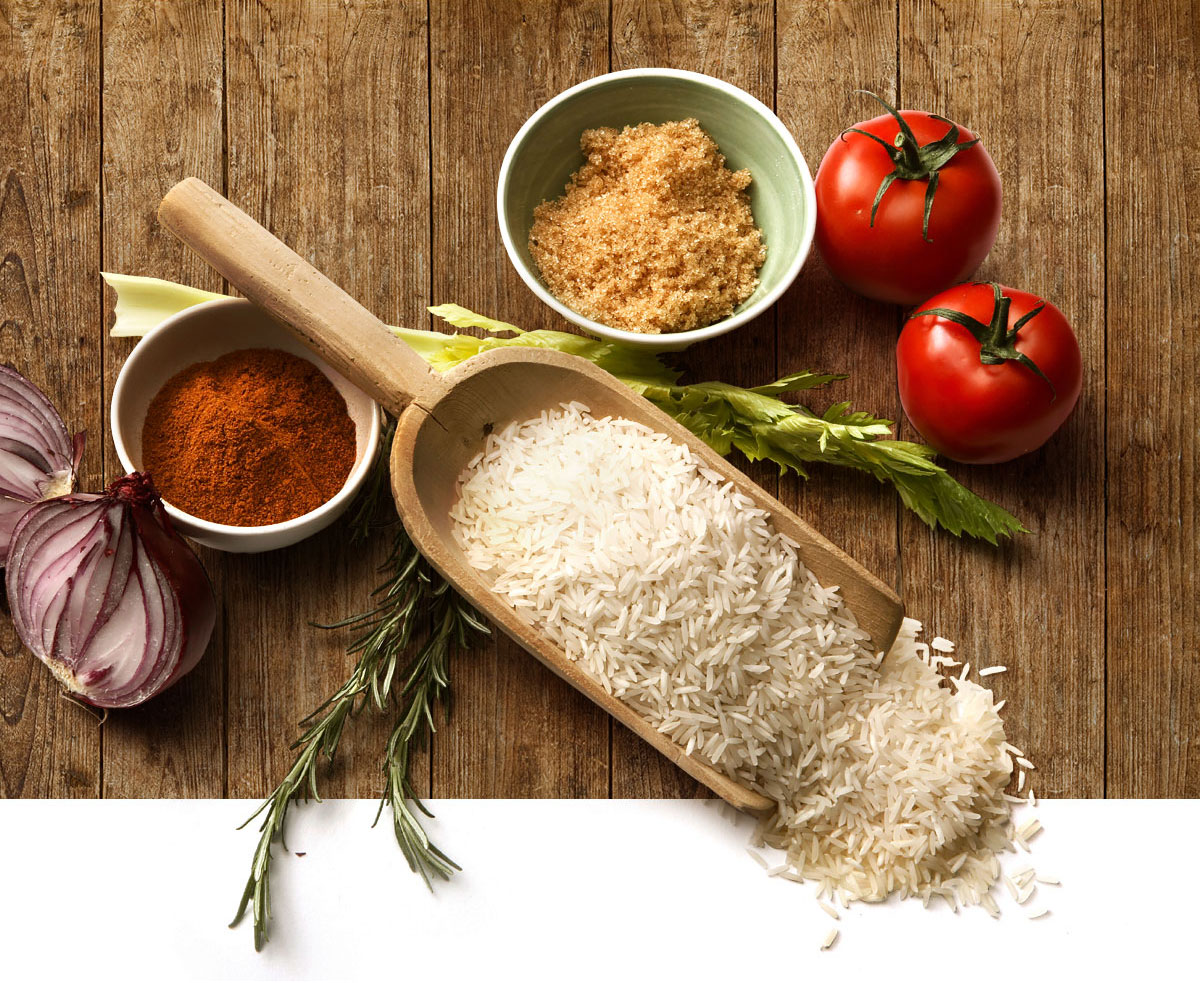
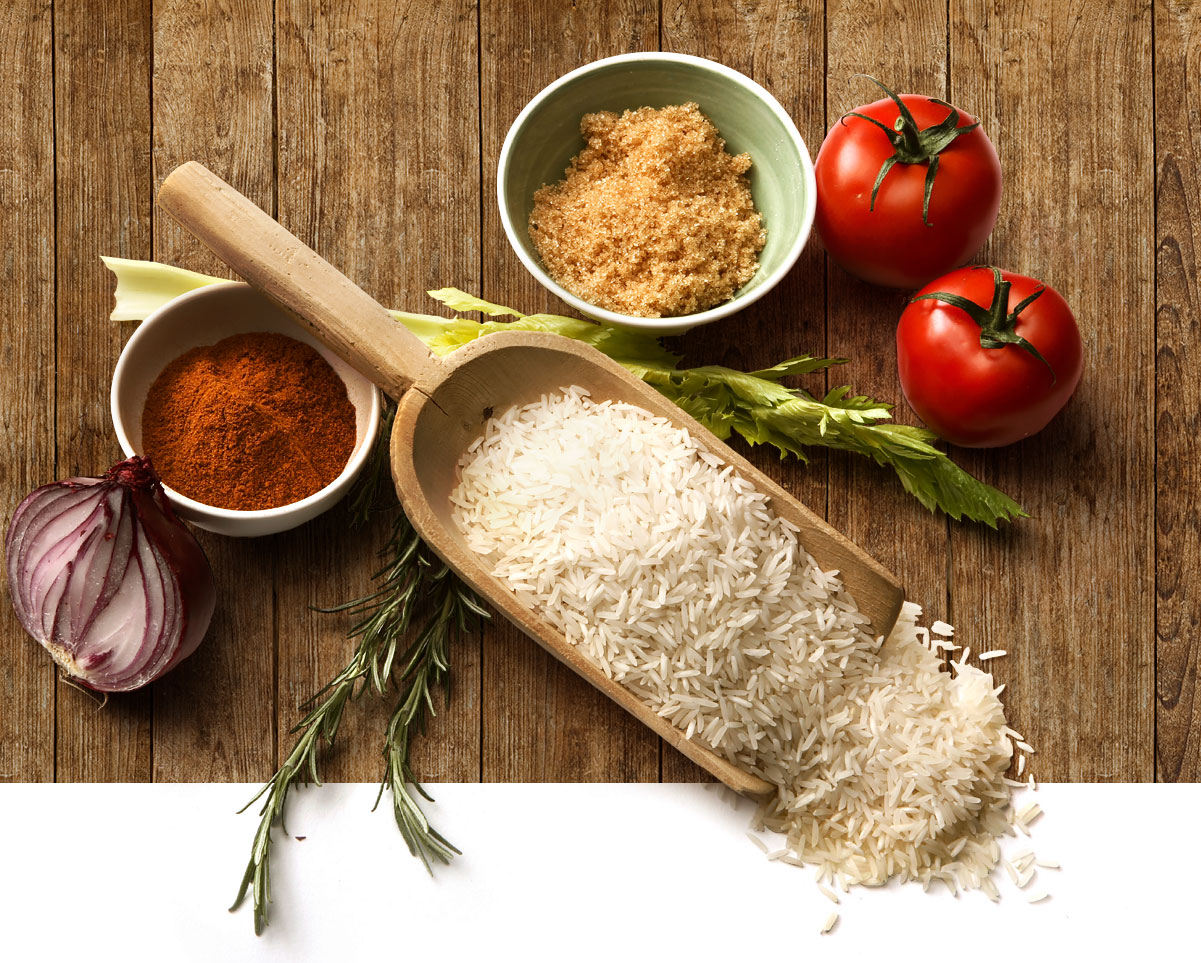
fix backgrounds and images

diff --git a/hipstafood/less/style.less b/hipstafood/less/style.less
@@ -60,8 +60,7 @@ section{
   
    .background{
       background-image:url("../img/img-1.jpg");
-      .opacity(100);
-      background-size:100%;
+      .opacity(100);      
    }
    .scroll-btn {
       display: block;
@@ -151,7 +150,7 @@ body > section.v-center > div {
     background-repeat:no-repeat,repeat-x;
     background-image:url('../img/table.jpg')~'\9';
     background-repeat:no-repeat~'\9';
-    background-attachment: fixed;    
+    background-position:top center ~'\9';       
     background-size: auto 100%;  
     padding-bottom:256px;
     height:996px;
@@ -161,9 +160,10 @@ body > section.v-center > div {
     .control-btn{bottom:240px;} 
   }
   &.custom-bg2 {
-     background-color: white;
+    background-color: white;
     background-image:url('../img/img-2.jpg');
     background-repeat:no-repeat;
+    background-attachment: normal; 
   }
 
   

diff --git a/hipstafood/css/style.css b/hipstafood/css/style.css
@@ -1236,7 +1236,6 @@ section p {
   background-image: url("../img/img-1.jpg");
   opacity: 1;
   filter: alpha(opacity=100);
-  background-size: 100%;
 }
 .header-10-sub .scroll-btn {
   display: block;
@@ -1368,7 +1367,7 @@ body > section.v-center > div {
   background-repeat: no-repeat, repeat-x;
   background-image: url('../img/table.jpg') \9;
   background-repeat: no-repeat \9;
-  background-attachment: fixed;
+  background-position: top center \9;
   background-size: auto 100%;
   padding-bottom: 256px;
   height: 996px;
@@ -1381,6 +1380,7 @@ body > section.v-center > div {
   background-color: white;
   background-image: url('../img/img-2.jpg');
   background-repeat: no-repeat;
+  background-attachment: normal;
 }
 .footer-3 {
   background-color: #1B1F23;

diff --git a/hipstafood/index.htm b/hipstafood/index.htm
@@ -73,7 +73,7 @@
                             <div class="span4 offset1">
                                 <div class="screen-wrapper-custom">
                                     <div class="screen-custom">
-                                        <img src="img/hipstafoodApp2.jpg"/>
+                                        <img src="img/hipstafoodApp2@2x.jpg"/>
                                     </div>
                                 </div>
                             </div>

diff --git a/hipstafood/js/script.js b/hipstafood/js/script.js
@@ -54,7 +54,7 @@ function fadedEls(el, shift) {
               });
       
        
-        $('.content-23').each(function() {
+        $('.content-23:not(.custom-bg)').each(function() {
                    $(this).parallax('center', 0.3, true);
                });
        
